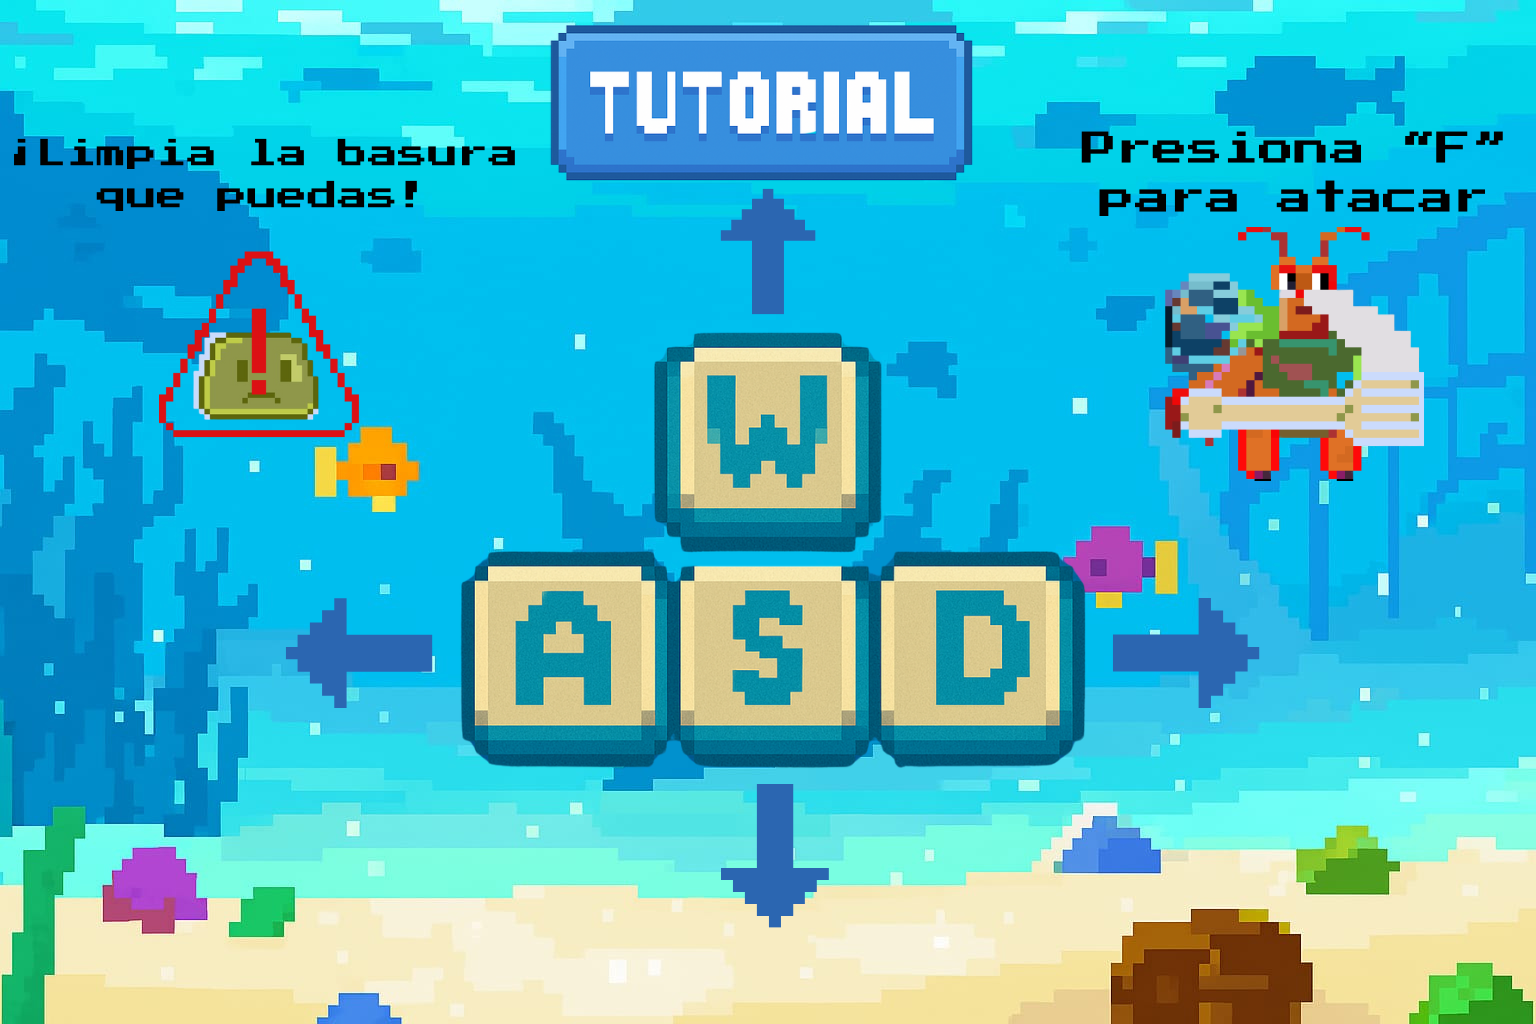
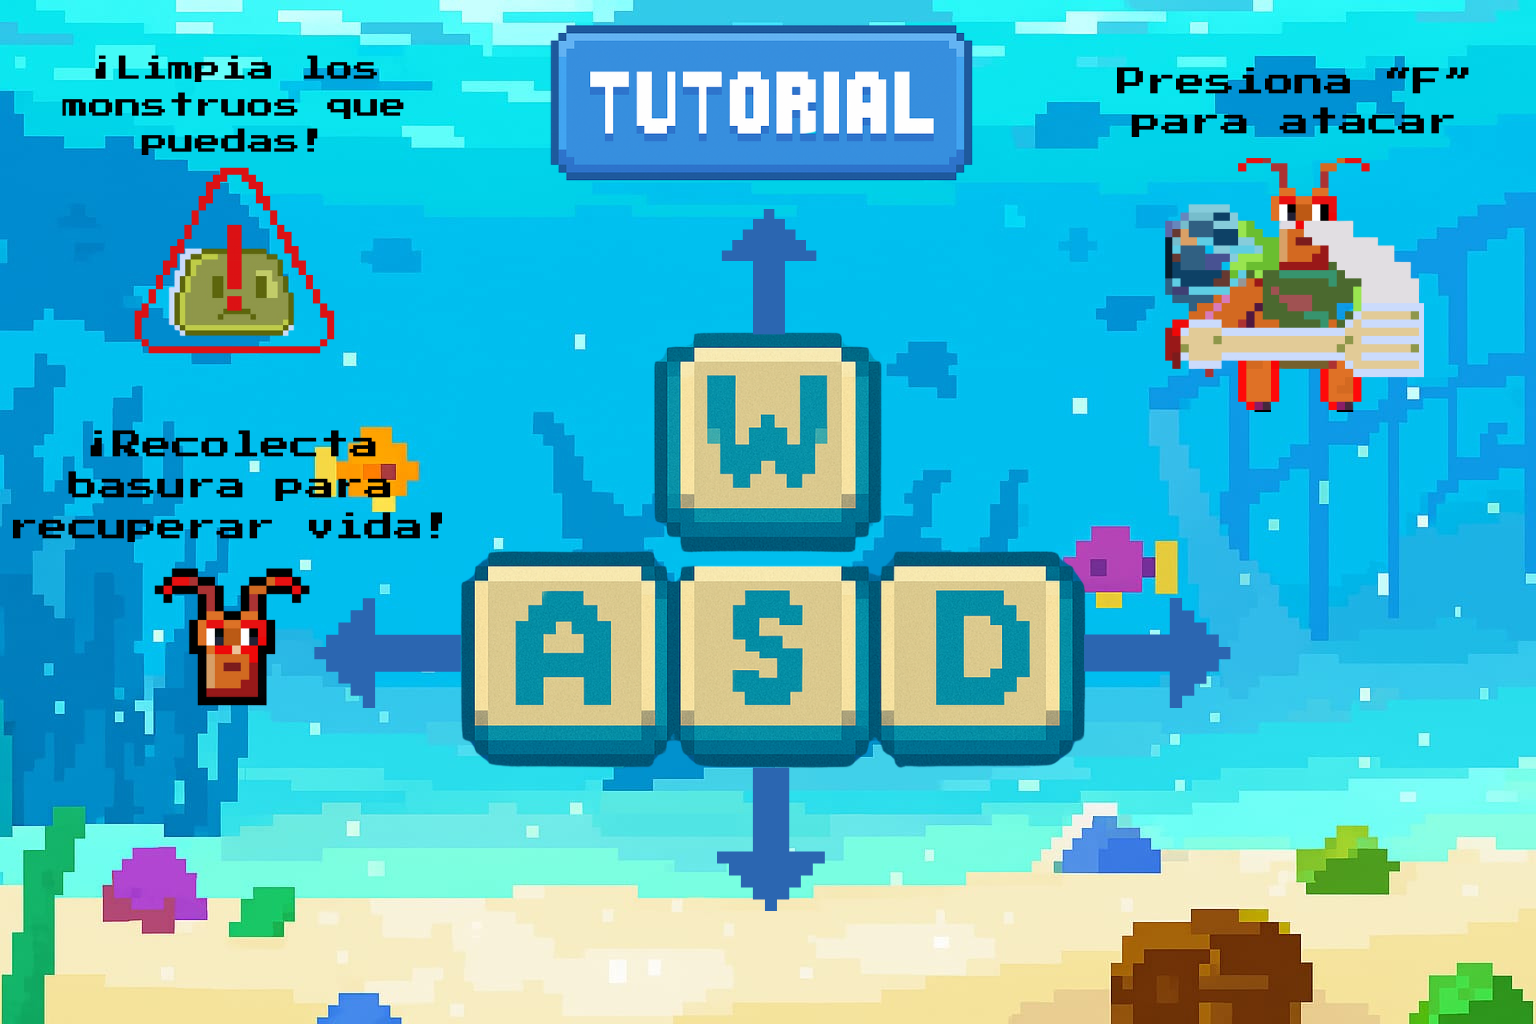
tutorial terminado

diff --git a/main.py b/main.py
@@ -1658,15 +1658,8 @@ def main():
     # === VIDEO INTRO (variable temporal) ===
     video_intro = None
 
-    # Tutorial (si existe)
-    try:
-        tutorial_img = pygame.image.load(IMG_DIR / "ui" / "tutorial.png").convert_alpha()
-    except Exception:
-        tutorial_img = None
-    tutorial_overlay = TutorialOverlay(
-        (constantes.ANCHO_VENTANA, constantes.ALTO_VENTANA),
-        tutorial_img if tutorial_img else pygame.Surface((800, 450), pygame.SRCALPHA)
-    ) if tutorial_img else None
+    # No cargues el tutorial aquí; el idioma aún no está elegido.
+    tutorial_overlay = None
 
     # HUD imágenes
     try:
@@ -2346,19 +2339,26 @@ def main():
                 else:
                     estado = ESTADO_VICTORIA
 
+            # --- crea grupos SOLO una vez ---
+            enemigos = pygame.sprite.Group()
+            items = pygame.sprite.Group()
+
+            # Secuencia de victoria
             secuencia_victoria = SecuenciaVictoria(
                 jugador,
                 pygame.Rect(flag_pos_world[0], flag_pos_world[1] - 200, 32, 200),
                 nivel,
                 on_finish=_ir_a_victoria
             )
+
+            # --- agrega enemigos por nivel ---
             if nivel_actual == 0:
                 enemigos.add(
                     Enemigo(x=3550, y=675, velocidad=0, escala=2.5),
                     Enemigo(x=3240, y=675, velocidad=0, escala=2.5),
-
                 )
-            if nivel_actual == 1:
+
+            elif nivel_actual == 1:
                 enemigos.add(
                     Enemigo(x=450, y=675, velocidad=34, escala=2.5),
                     Enemigo(x=800, y=675, velocidad=35, escala=2.5),
@@ -2370,9 +2370,10 @@ def main():
                     Enemigo(x=2830, y=643, velocidad=35, escala=2.5),
                     Enemigo(x=3725, y=320, escala=2.5)
                 )
+
             elif nivel_actual == 2:
                 enemigos.add(
-                    Enemigo_walk(x=299, y=833, velocidad = 40),
+                    Enemigo_walk(x=299, y=833, velocidad=40),
                     Enemigo(x=450, y=675, velocidad=35, escala=2.5),
                     Enemigo_walk(x=1578, y=831, velocidad=40),
                     Enemigo(x=2331, y=830, velocidad=35, escala=2.5),
@@ -2385,11 +2386,11 @@ def main():
                     Enemigo_walk(x=5445, y=832, velocidad=40),
                     Enemigo(x=5442, y=574, velocidad=35, escala=2.5),
                     Enemigo_walk(x=6084, y=448, velocidad=40),
-
                 )
+
             elif nivel_actual == 3:
                 enemigos.add(
-                    Enemigo_walk(x=611, y=864, velocidad = 40),
+                    Enemigo_walk(x=611, y=864, velocidad=40),
                     Enemigo(x=869, y=671, velocidad=35, escala=2.5),
                     Enemigo_walk(x=1469, y=864, velocidad=40),
                     Enemigo_walk(x=2414, y=864, velocidad=40),
@@ -2403,26 +2404,29 @@ def main():
                     Enemigo_walk(x=4083, y=864, velocidad=40),
                     Enemigo_walk(x=5946, y=864, velocidad=40),
                     Enemigo(x=5933, y=735, velocidad=35, escala=2.5),
-                    Enemigo_walk(x=7548, y=864, velocidad=40),
+                    Enemigo(x=7548, y=864, velocidad=40),
                     Enemigo(x=7552, y=672, velocidad=35, escala=2.5),
                     Enemigo(x=7550, y=543, velocidad=35, escala=2.5),
                     Enemigo(x=7552, y=672, velocidad=35, escala=2.5),
                     Enemigo(x=8319, y=448, velocidad=35, escala=2.5),
                     EnemigoPezueso(
-                        x=300, y=500,
-                        jugador=jugador,
-                        velocidad_patrulla=100,
-                        velocidad_furia=260,
-                        radio_det=220,
-                        duracion_furia_ms=1800,
-                        dir_inicial=1,
-                        mundo_bounds=(0, 0, nivel.width_px, nivel.height_px),
+                        x=300, y=500, jugador=jugador,
+                        velocidad_patrulla=100, velocidad_furia=260,
+                        radio_det=220, duracion_furia_ms=1800,
+                        dir_inicial=1, mundo_bounds=(0, 0, nivel.width_px, nivel.height_px),
                         escala_extra=1.0
                     ),
-
                 )
-            items = pygame.sprite.Group()
-            if nivel_actual == 1:
+
+            # --- agrega items por nivel (SIN volver a hacer items = Group()) ---
+            if nivel_actual == 0:
+                items.add(
+                    Manzana(x=2298, y=591),
+                    Manzana(x=2590, y=463),
+                    bolsa(x=2740, y=375)
+                )
+
+            elif nivel_actual == 1:
                 items.add(
                     Manzana(x=338, y=479),
                     Manzana(x=724, y=374),
@@ -2434,10 +2438,8 @@ def main():
                     Manzana(x=2216, y=526),
                     Manzana(x=4481, y=425),
                     Manzana(x=4585, y=425),
-                    Manzana(x=4585, y=425),
                     Manzana(x=4681, y=425),
                     Manzana(x=3403, y=379),
-                    Manzana(x=3981, y=384),
                     Manzana(x=3981, y=384),
                     bolsa(x=2508, y=150),
                     bolsa(x=5342, y=254),
@@ -2477,11 +2479,39 @@ def main():
                     nivel_actual == 1
                     and selected_difficulty == "FACIL"
                     and not tutorial_shown_level1
-                    and tutorial_overlay
             ):
-                tutorial_context = "game"
-                estado = ESTADO_TUTORIAL
-                musica.set_master_volume(settings["volume"] * 0.5)  # volumen reducido
+                # Construir el overlay en este momento según el idioma
+                try:
+                    lang = settings.get("language") or "es"
+                    ui_dir = IMG_DIR / "ui"
+                    path = ui_dir / ("tutorial_en.png" if lang == "en" else "tutorial.png")
+                    if not path.exists():
+                        path = ui_dir / "tutorial.png"
+
+                    print(f"[INFO] Cargando tutorial desde: {path} (lang={lang})")
+                    tutorial_img = pygame.image.load(path).convert_alpha()
+                    tutorial_overlay = TutorialOverlay(
+                        (constantes.ANCHO_VENTANA, constantes.ALTO_VENTANA),
+                        tutorial_img
+                    )
+
+                    tutorial_context = "game"
+                    estado = ESTADO_TUTORIAL
+                    musica.set_master_volume(settings["volume"] * 0.5)  # volumen reducido
+
+                except Exception as e:
+                    print(f"[ADVERTENCIA] No se pudo cargar el tutorial ({path}): {e}")
+                    # Fallback: entrar directo al juego
+                    spawn_grace = SPAWN_GRACE
+                    spawn_skip_frames = SPAWN_SKIP_FRAMES
+                    jugador.invencible = True
+                    jugador.invencible_timer = SPAWN_GRACE
+                    jugador.knockback_activo = False
+                    jugador.knockback_timer = 0.0
+                    jugador.vel_y = 0
+                    jugador.en_piso = True
+                    estado = ESTADO_JUEGO
+
             else:
                 # === SPAWN FIX: al entrar directo al juego, activar gracia/frames ===
                 spawn_grace = SPAWN_GRACE
@@ -2493,6 +2523,7 @@ def main():
                 jugador.vel_y = 0
                 jugador.en_piso = True
                 estado = ESTADO_JUEGO
+
 
         elif estado == ESTADO_TUTORIAL:
             pass  # la interacción se maneja en eventos
